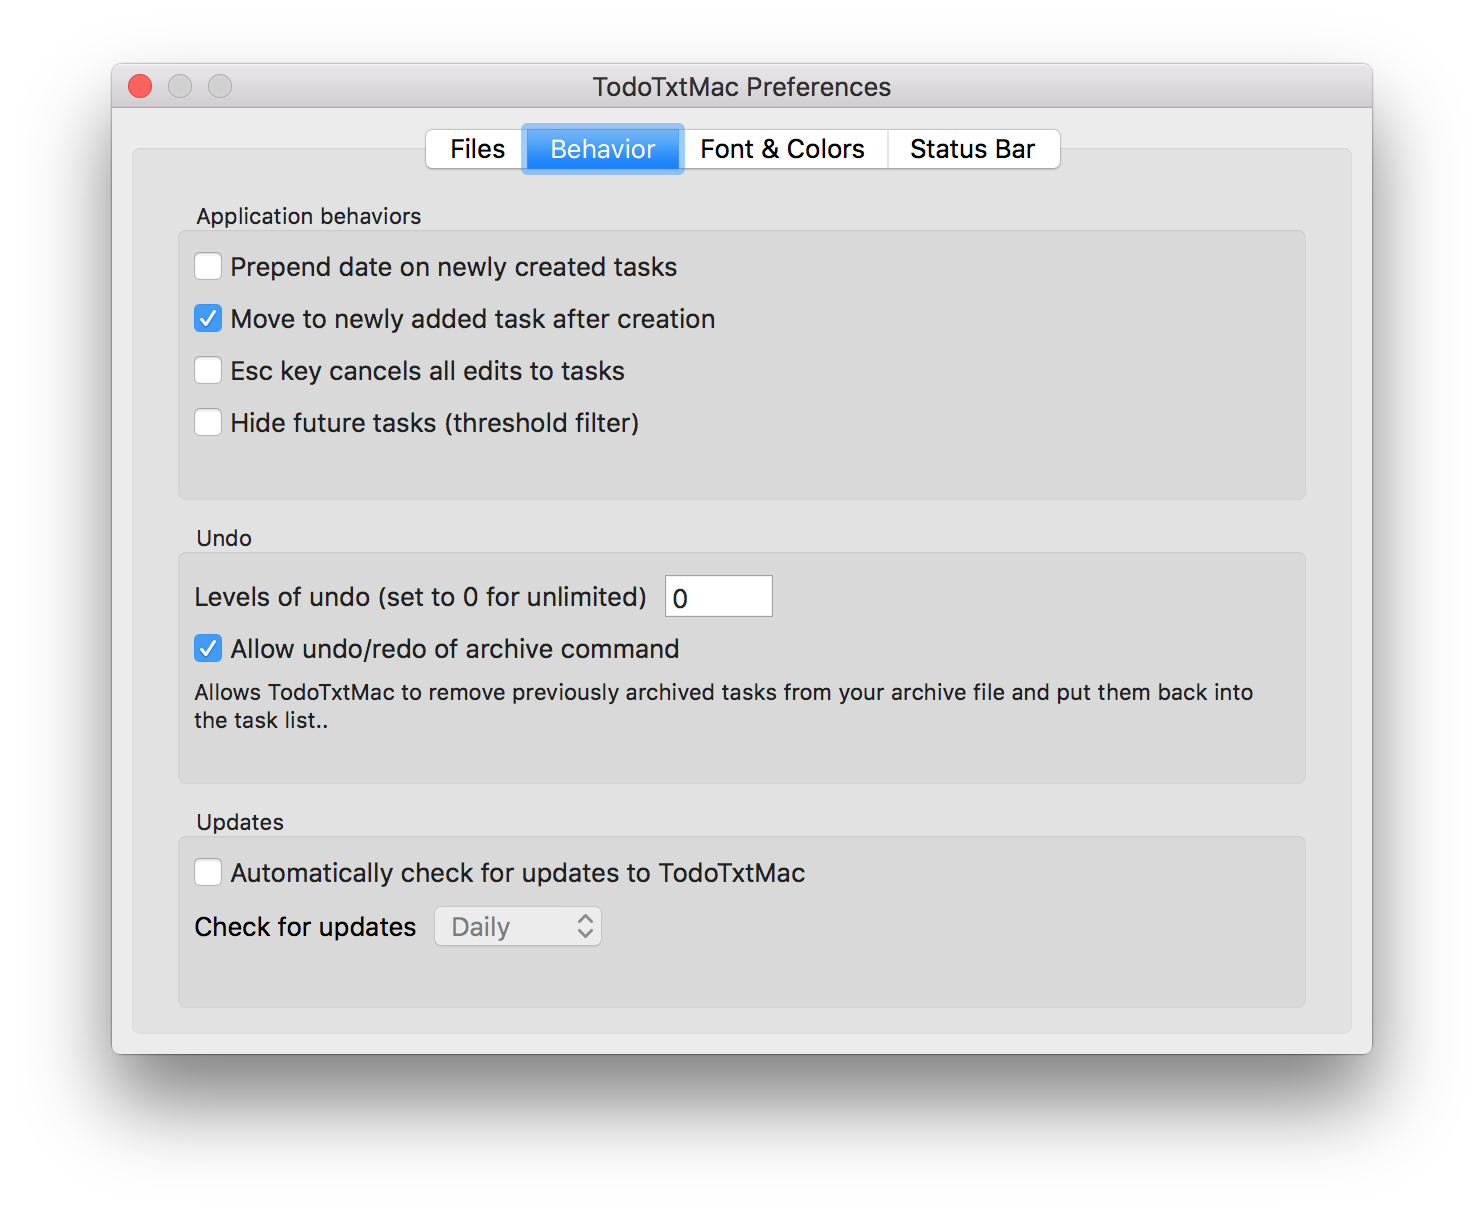
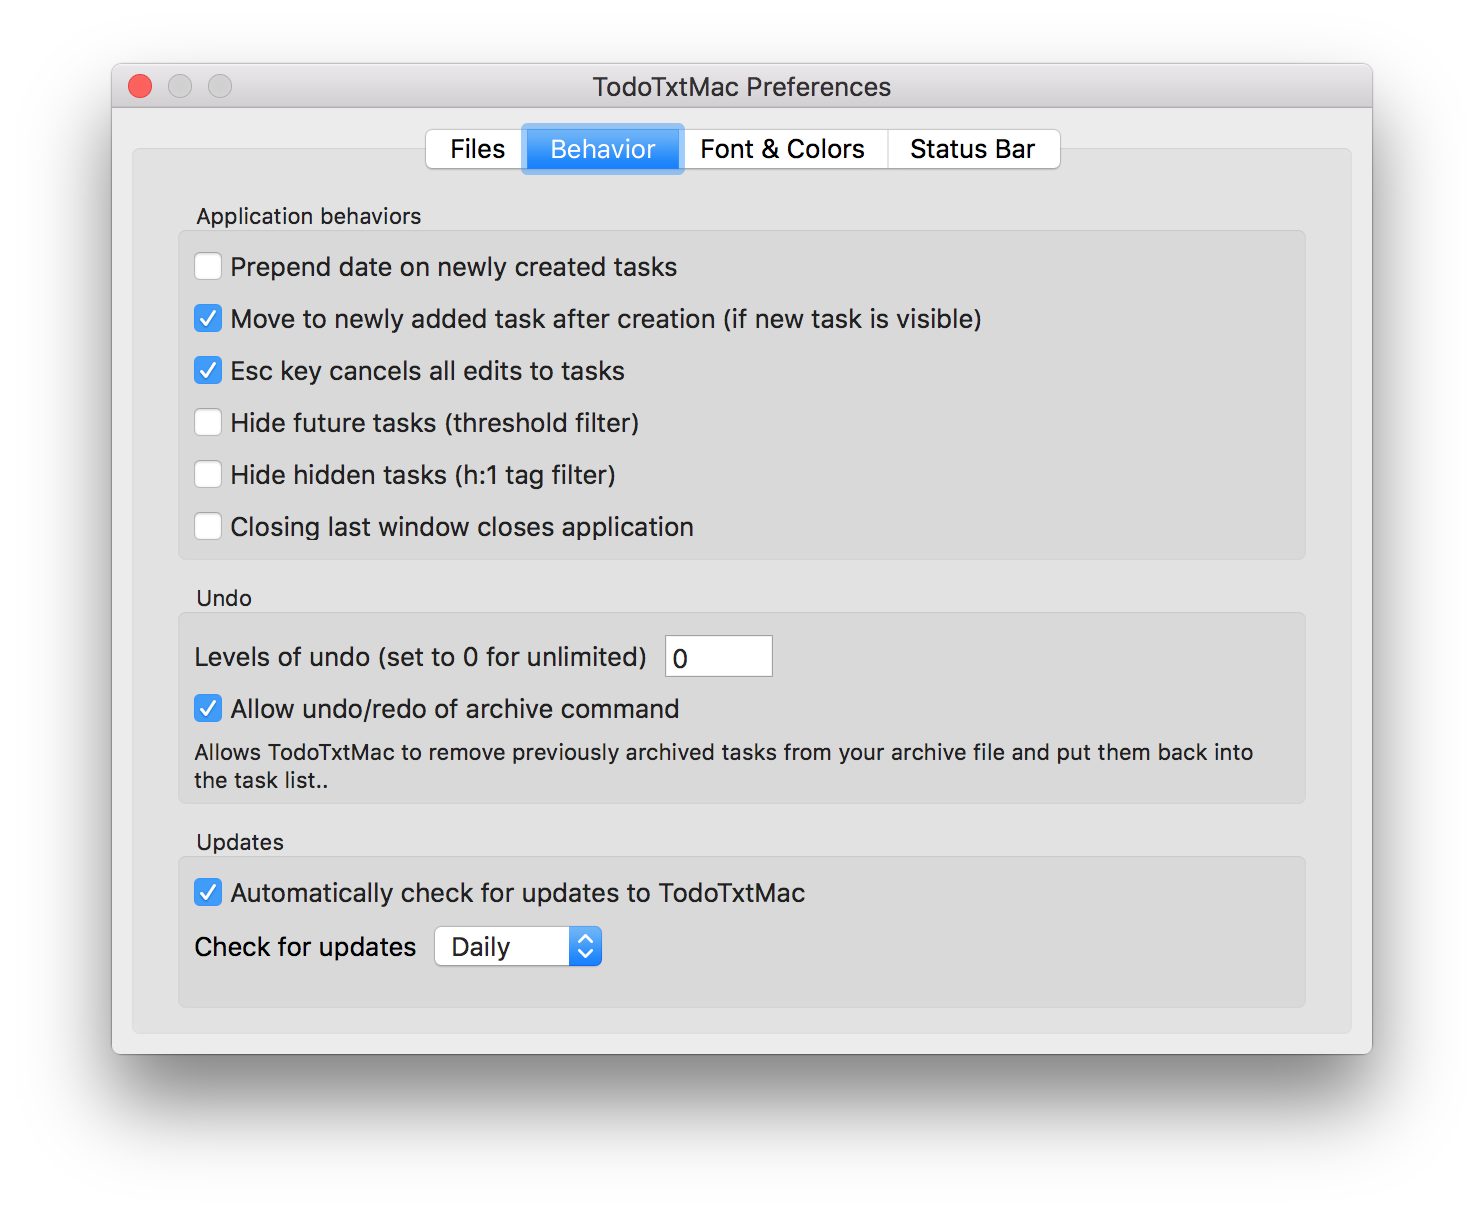
Version 2.2.0 release.

Changed region(s): [[0.124, 0.3657, 0.8369, 0.8229], [0.496, 0.2438, 0.6509, 0.2743], [0.124, 0.2743, 0.155, 0.3353]]

diff --git a/release-notes/release-notes-v2.2.0.html b/release-notes/release-notes-v2.2.0.html
@@ -1,0 +1,28 @@
+<!DOCTYPE html>
+<html class="no-js">
+    <head>
+        <meta charset="utf-8">
+        <title>TodoTxtMac | Release Notes - v2.2.0</title>
+        <meta name="description" content="TodoTxtMac release notes">
+        <meta name="viewport" content="width=device-width, initial-scale=1">
+    </head>
+    <body>
+        <h1>Version 2.2.0</h1>
+        <h2>Enhancements</h2>
+        <ul>
+            <li>Added support for recurring tasks with the rec: tag.</li>
+            <li>Added support for hidden tasks with the h:1 tag.</li>
+            <li>Added Shift+Command+C command to copy the selected task to the new task editor.</li>
+            <li>Added option to close the application when the last window is closed.</li>
+            <li>Added due state for "no due date".</li>
+            <li>The tasklist will now scroll to newly added tasks.</li>
+            <li>Minor user interface tweaks.</li>
+            <li>Updated Sparkle framework to v1.14.0.</li>
+        </ul>
+        <h2>Bug Fixes</h2>
+        <ul>
+            <li>Fixed a bug that was duplicating filtered (not visible) tasks when refreshing the file.</li>
+            <li>Improved behavior when reloading the file after changes were made in an external application.</li>
+        </ul>
+    </body>
+</html>

diff --git a/index.html b/index.html
@@ -70,6 +70,7 @@ TodoTxtMac is a minimalist, keyboard-driven to-do manager for Mac OS X that conf
 
 <ul>
 <li>Full compliance with the todo.txt format spec.</li>
+<li>Support for due date (due:), threshold date (t:), recurring tasks (rec:), and hidden (h:1) tags. 
 <li>Fully keyboard-driven, with one-key bindings for commonly-used commands.</li>
 <li>Multiple selection in the task list.</li>
 <li>Support for due dates, which are formatted "due:YYYY-MM-DD".</li>
@@ -158,6 +159,7 @@ TodoTxtMac is a minimalist, keyboard-driven to-do manager for Mac OS X that conf
 <li>Command+Down: Decrease priority</li>
 <li>Command+Left or Command+Right: Remove priority</li>
 <li>Command+C: Copy selected tasks to the clipboard</li>
+<li>Command+Shift+C: Copy selected task to the new task text box</li>
 <li>Command+X: Cut selected tasks to the clipboard</li>
 <li>Command+Shift+V: Paste tasks into the task list from the clipboard</li>
 <li>Command+Option+Up: Increase due date by 1 day</li>
